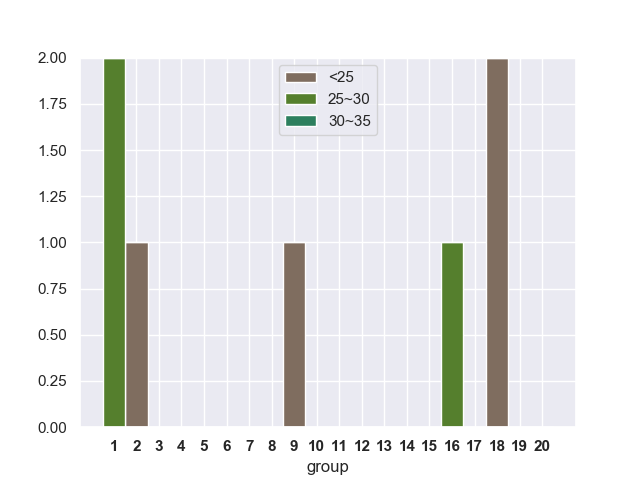
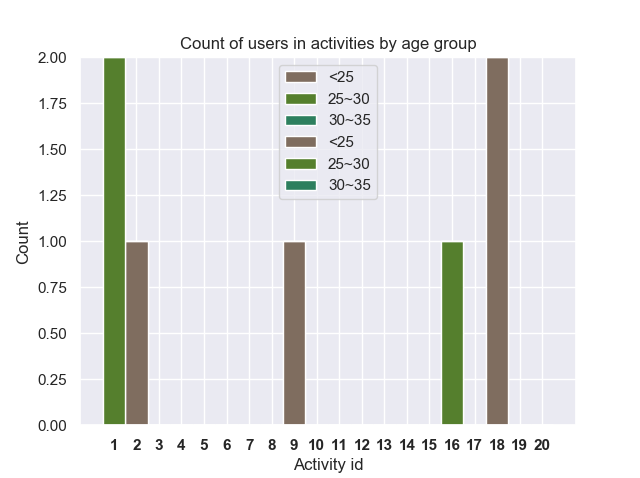
Fixed minor visualizations bugs

diff --git a/user_interface/visualizations.py b/user_interface/visualizations.py
@@ -33,12 +33,17 @@ sns.set()
 ##      Call these from the menu when an option is input :)
 
 def visualization1():
+    """
+    Distribution of Male/Female current Users for Customers, Mates and Managers
+    Rationale: the distribution graph reveal about important info on sex, which might helps
+    finding the target users, and for advertisement purpose.
+    """
 
     stmt1 = "SELECT sex,COUNT(m.username) count " \
             " FROM mate m" \
             " JOIN usertable u ON m.username= u.username" \
             " GROUP BY sex;"
-    stmt2 = "SELECT sex,COUNT(m.username) " \
+    stmt2 = "SELECT sex,COUNT(m.username) " \   
             "FROM customer m" \
             " JOIN usertable u ON m.username= u.username" \
             " GROUP BY sex;"
@@ -79,14 +84,20 @@ def visualization1():
 
     plt.xlabel('Sex')
     plt.ylabel('Count')
-    plt.title('Histogram of female/male ratio')
+    plt.title('Histogram of female/male ratio for users')
     plt.xticks(group1 + group2 + group3, ('female', 'male') * 3)
     plt.legend()
     plt.tight_layout()
     plt.show()
     plt.savefig('../figs/visual1.png')
 
+
 def visualization2():
+    """ 
+    Visualization_2: Pairplot and distributions of ages vs. hourly rates for Mates 
+    Rationale: the pair plot provide the relateness between age and hourly rate, 
+    which contributes in finding target user since people tends to find similar age friends
+    """
 
     stmt = "SELECT hourlyRate, date_part('year',age('2020-03-31', dateOfBirth)) age " \
             "FROM mate m" \
@@ -97,10 +108,15 @@ def visualization2():
     #print(df.to_numpy())
     #print(df.astype({'hourlyrate': 'int64','age': 'int64'}).dtypes)
     sns_plot= sns.pairplot(df, vars=["age", "hourlyrate"])
-    plt.title("Pair plot for age and hourlyRate")
+    plt.title("Mates age vs. hourly rate")
     sns_plot.savefig('../figs/visual_2.png')
 
 def visualization3():
+    """
+    Box/Distributional plot of the hourlyRate, mean value/Outliers 
+    Rationale：This combination of plots helps the company to monitor the hourly pay. 
+    (not overprice) Also, check those outliers to identify the popular ones or abnormal one.
+    """
 
     stmt= "SELECT hourlyRate " \
           "FROM mate;"
@@ -115,10 +131,18 @@ def visualization3():
     # Remove x axis name for the boxplot
     ax_box.set(xlabel='')
     plt.title("Boxplot and distributional plot for hourlyRate")
+    plt.xlabel("Mate hourly rate")
+    plt.ylabel("Frequency")
     plt.show()
     plt.savefig('../figs/visual_3.png')
 
 def visualization4():
+    """
+    Stacked Histogram for age interval and activites. The company might be instersted in investigating 
+    for a certain age interval, which activities are the most popular. 
+    This can help the company to form a better recommendation schema for the website. 
+    The age intervals are : 1)20-25 2)25-30 3)30-35
+    """
 
     stmt1 ="SELECT COALESCE(a.aid,a.aid) aid, COALESCE (temp.count,0) count " \
            "FROM activity a LEFT OUTER JOIN " \
@@ -184,14 +208,18 @@ def visualization4():
 
     # Custom X axis
     plt.xticks(r, names, fontweight='bold')
-    plt.xlabel("group")
+    plt.xlabel("Activity id")
+    plt.ylabel("Count")
+    plt.title("Count of users in activities by age group")
     # Show graphic
     plt.legend()
     plt.show()
     plt.savefig('../figs/visual_4.png')
 
 def visualization5():
-
+    """ 
+    Donut Plot of statues for applications: Pending, Approved, Rejected, which helps to monitor managers’ workload.
+    """
 
     stmt = "SELECT appStatus, COUNT(appid) count " \
            "FROM application" \
